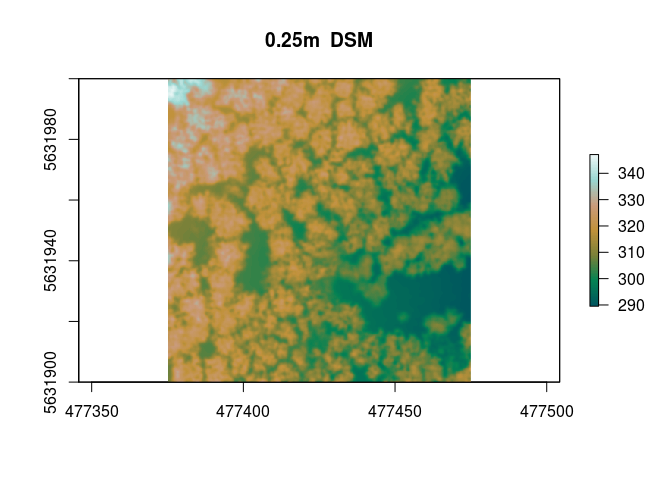
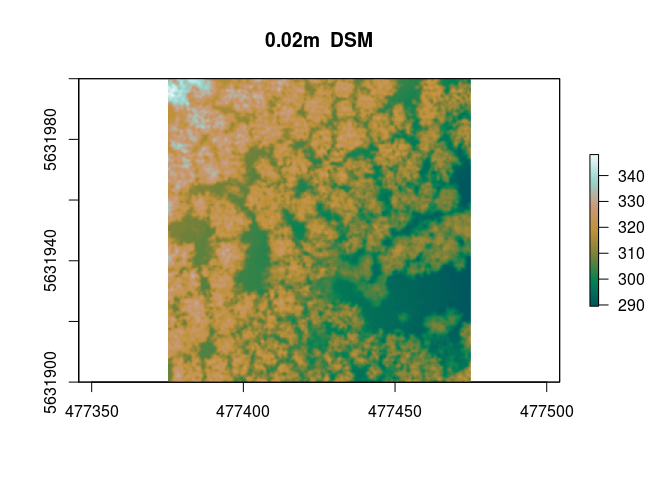
uavCHM

diff --git a/uavRst/chmUAV/chmuav.md b/uavRst/chmUAV/chmuav.md
@@ -11,35 +11,123 @@ Prerequisites
 
 To derive Orthoimages or point clouds one can use between different tools the tutorial data is produced using [Agisoft Photoscan](http://www.agisoft.com) which is a great tool for deriving point clouds and all kind of surface models. In the end of the processing chain you will have an orthorectified image and a dense point cloud. We will use some UAV data from the Marburg Open Forest project.
 
-First attempt
--------------
+First we have to set up the project. This is obviously more than usually due to the fact that a bunch of software needs to be linked against R.
 
-First we have to set up the project. This is obviously more than usually due to the fact that a bunch of software needs to be linked against R. f
+``` r
+require(uavRst)
+```
 
     ## Loading required package: uavRst
+
+``` r
+require(raster)
+```
 
     ## Loading required package: raster
 
     ## Loading required package: sp
 
+``` r
+require(mapview)
+```
+
     ## Loading required package: mapview
+
+``` r
+# proj subfolders
+projRootDir<-setwd(tempdir())
+paths<-link2GI::initProj(projRootDir = projRootDir,
+                         projFolders = c("data/","data/ref/","output/","run/","las/"),
+                         global = TRUE,
+                         path_prefix = "path_")
+
+
+url <- "https://github.com/gisma/gismaData/raw/master/uavRst/lidar_477375_00_5631900_00_477475_00_5632000_00.las"
+res <- curl::curl_download(url, "lasdata.las")
+giLinks<-linkBuilder()
+```
 
     ## 1
 
+First attempt
+-------------
+
+Original resolution without filtering.
+
+``` r
+dsm1 <- uavRst::pc2dsm(lasDir = "lasdata.las",
+                      gisdbase_path = projRootDir,
+                      grid_size = ".02",
+                      GRASSlocation = "dsm",
+                      grass_lidar_method = "mean",
+                      giLinks = giLinks)
+```
+
     ## :: calculate DSM...
     ## :: convert raw DSM to GeoTiff 
     ## :: fill no data... 
     ## :: smoothing the gap filled DSM... 
     ## :: calculate metadata ...
 
-![](chmuav_files/figure-markdown_github/dsm1-1.png) \#\# Second attempt
+``` r
+pal = mapviewPalette("mapviewTopoColors")
+raster::plot(dsm1[[1]],col = pal(100), main ="0.02m  DSM")
+```
+
+![](chmuav_files/figure-markdown_github/dsm1-1.png)
+
+Second attempt
+--------------
+
+0.25 meter resolution without filtering.
+
+``` r
+dsm2 <- uavRst::pc2dsm(lasDir = "lasdata.las",
+                      gisdbase_path = projRootDir,
+                      grid_size = ".25",
+                      GRASSlocation = "dsm",
+                      grass_lidar_method = "mean",
+                      giLinks = giLinks)
+```
+
+    ## :: calculate DSM...
+    ## :: convert raw DSM to GeoTiff 
+    ## :: fill no data... 
+    ## :: smoothing the gap filled DSM... 
+    ## :: calculate metadata ...
+
+``` r
+pal = mapviewPalette("mapviewTopoColors")
+raster::plot(dsm2[[1]],col = pal(100), main ="0.25m  DSM")
+```
+
+![](chmuav_files/figure-markdown_github/dsm2-1.png)
+
+Third attempt
+-------------
 
 we want to have a coarser and smoother result, so we can change the filter and resolution options.
 
+``` r
+dsm3 <- uavRst::pc2dsm(lasDir = "lasdata.las",
+                      gisdbase_path = projRootDir,
+                      type_smooth = "gauss",
+                      otb_gauss_radius ="3",
+                      grid_size = "2",
+                      GRASSlocation = "dsm",
+                      grass_lidar_method = "mean",
+                      giLinks = giLinks)
+```
+
     ## :: calculate DSM...
     ## :: convert raw DSM to GeoTiff 
     ## :: fill no data... 
     ## :: smoothing the gap filled DSM... 
     ## :: calculate metadata ...
 
-![](chmuav_files/figure-markdown_github/dsm2%20-1.png)
+``` r
+pal = mapviewPalette("mapviewTopoColors")
+raster::plot(dsm3[[1]],col = pal(100), main ="2m  DSM smoothed")
+```
+
+![](chmuav_files/figure-markdown_github/dsm3%20-1.png)
